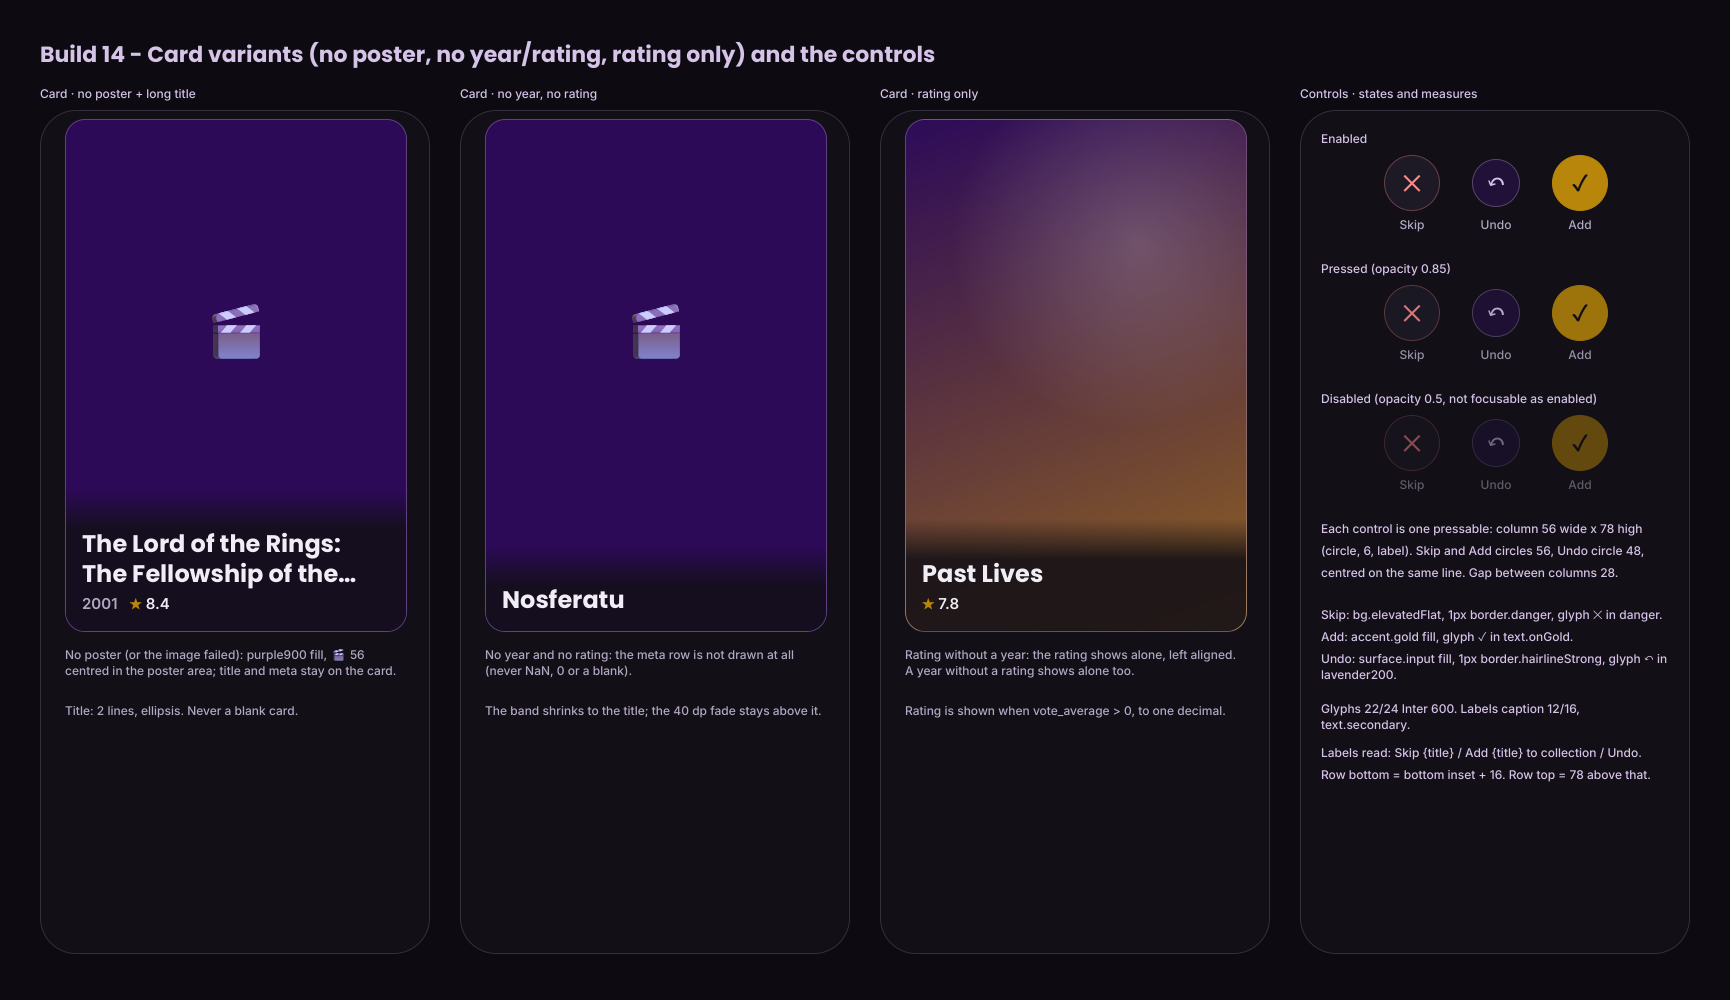
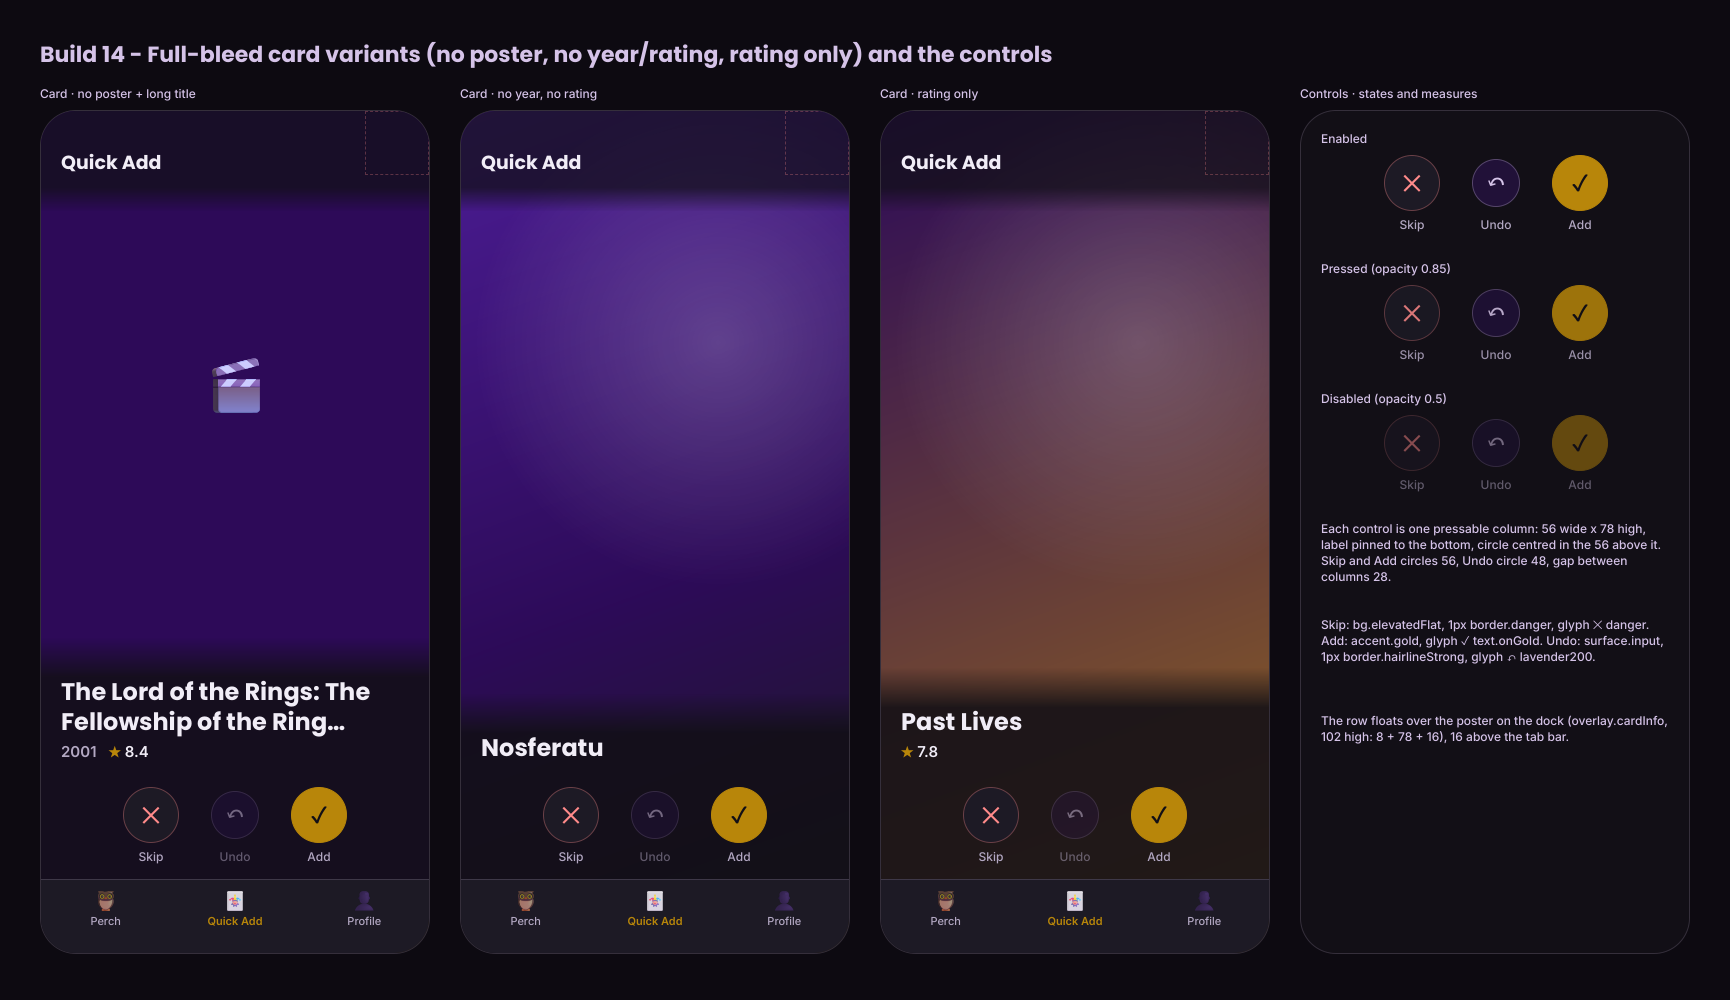
Build 14: Justin's tab + full-bleed change; re-rendered boards

diff --git a/logs/build-14-quick-add-deck.md b/logs/build-14-quick-add-deck.md
@@ -37,3 +37,12 @@ PLAN.md's Build 14 "Failure modes to cover" apply in full. Manager additions / e
 12. **Standards + emulator rules:** tokens only, flat fills, ≤ 3 cards mounted, `.get()/.set()` on shared
     values (React Compiler), 1–2 line comments; `scripts/emulator.sh ensure` before device work; never /sdcard;
     no sign-out; jest `--maxWorkers=50%`; React Query act pattern in tests (no act-env switching).
+
+## Design change by Justin (2026-10-02, after a629a2c) — rework round
+- Justin: "quick add should be a button below, along with Perch and Profile" → Quick Add is a bottom tab
+  (Perch · Quick Add · Profile), no Home row, no back chip (PLAN N1 9ed71b4; Priya 00c1348).
+- Justin: "the movie should be full screen layout" → full-bleed poster deck inside the tab (Dianne 317ea0e).
+- Justin noticed right swipe / Add doesn't add: expected until Build 16b (N4); the "Watched" button on details
+  he asked for is planned as Build 16c (Priya 00c1348).
+- Boards re-rendered by the Manager (`logs/evidence/build-14/design/`, home-entry replaced by tab-bar): no clipping
+  or overlap; motion frames are card-only by design.
